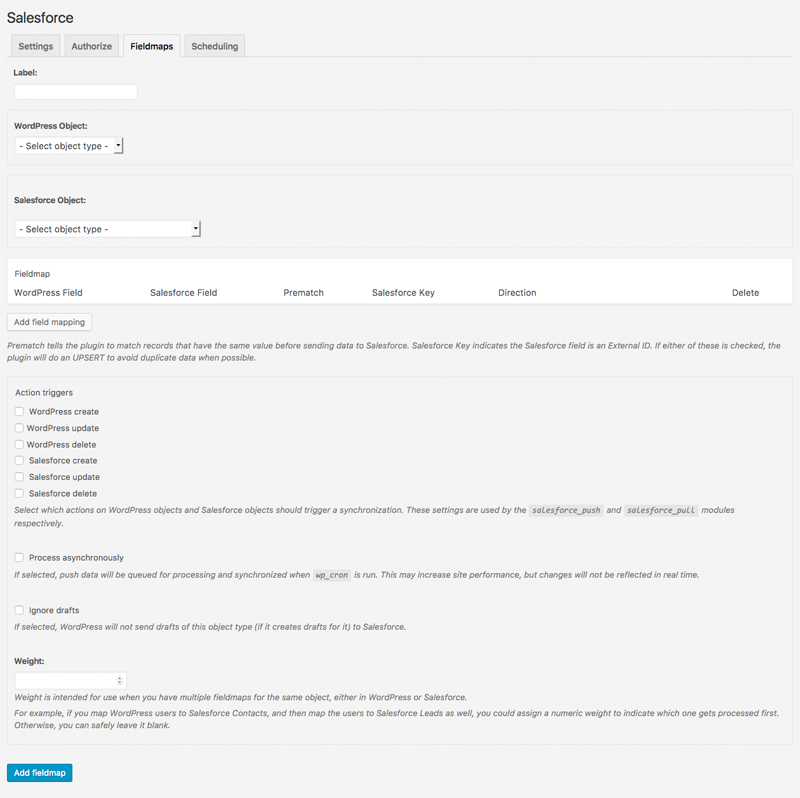
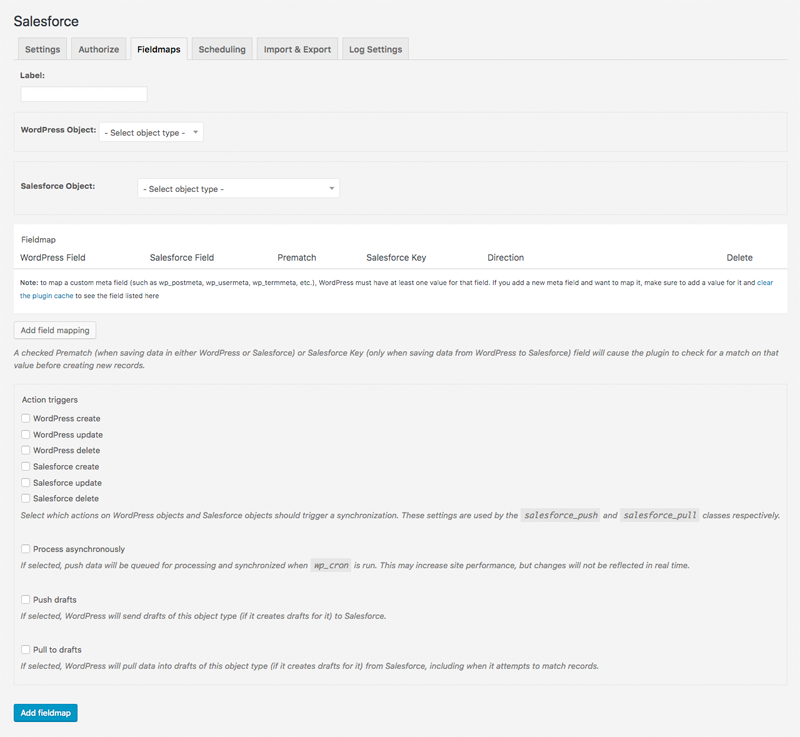
update comments, docs, and interface to try to make it a bit more clear the difference between prematch and salesforce key fields

diff --git a/templates/admin/fieldmaps-add-edit-clone.php b/templates/admin/fieldmaps-add-edit-clone.php
@@ -378,7 +378,7 @@
 		}
 		?>
 		<p><button type="button" id="add-field-mapping" class="button button-secondary"><?php echo $add_button_label; ?></button></p>
-		<p class="description"><?php echo esc_html__( 'Prematch tells the plugin to match records that have the same value before sending data to Salesforce. Salesforce Key indicates the Salesforce field is an External ID. If either of these is checked, the plugin will do an UPSERT to avoid duplicate data when possible.', 'object-sync-for-salesforce' ); ?></p>
+		<p class="description"><?php echo esc_html__( 'A checked Prematch (when saving data in either WordPress or Salesforce) or Salesforce Key (only when saving data from WordPress to Salesforce) field will cause the plugin to check for a match on that value before creating new records.', 'object-sync-for-salesforce' ); ?></p>
 	</fieldset>
 	<fieldset class="sync_triggers">
 		<legend><?php echo esc_html__( 'Action triggers', 'object-sync-for-salesforce' ); ?></legend>

diff --git a/classes/salesforce_pull.php b/classes/salesforce_pull.php
@@ -882,7 +882,7 @@ class Object_Sync_Sf_Salesforce_Pull {
 
 						$op = 'Upsert';
 
-						// if either prematch criteria exists, make the values queryable
+						// if a prematch criteria exists, make the values queryable
 						if ( isset( $prematch_field_salesforce ) ) {
 							$upsert_key     = $prematch_field_wordpress;
 							$upsert_value   = $prematch_value;

diff --git a/docs/mapping.md b/docs/mapping.md
@@ -87,11 +87,11 @@ If you encounter this issue, first try these steps in Salesforce:
 
 #### Other configuration
 
-Prematch determines whether the field should be used to match objects. If it is checked, the plugin will see objects that share a value in that pair to be matched.
+Prematch determines whether the field should be used to match objects between Salesforce and WordPress, regardless of the direction. If it is checked, the plugin always will see objects that share a value in that pair to be matched.
 
 A Salesforce Key is a flag in Salesforce that determines whether a field is another system's external ID. Salesforce uses this to keep data from being overwritten.
 
-A checked Prematch (when saving data in WordPress or Salesforce) or Salesforce Key (when saving data in Salesforce) will cause the plugin to try to "upsert" the data to its destination. This means it checks to see if there is a match before creating a new record. You can expand how upserting works with several hooks, which are [documented](./extending-upsert.md).
+A checked Prematch (when saving data in WordPress or Salesforce) or Salesforce Key (only when saving data from WordPress to Salesforce) will cause the plugin to try to "upsert" the data to its destination. This means it checks to see if there is a match before creating a new record. You can expand how upserting works with several hooks, which are [documented](./extending-upsert.md).
 
 Direction chooses what to do with the field's data. If you select Salesforce to WordPress, this field won't be sent to Salesforce. If you select WordPress to Salesforce, this field won't be sent to Wordpress. If you choose Sync, it will go from one system to the other whenever it changes.
 
